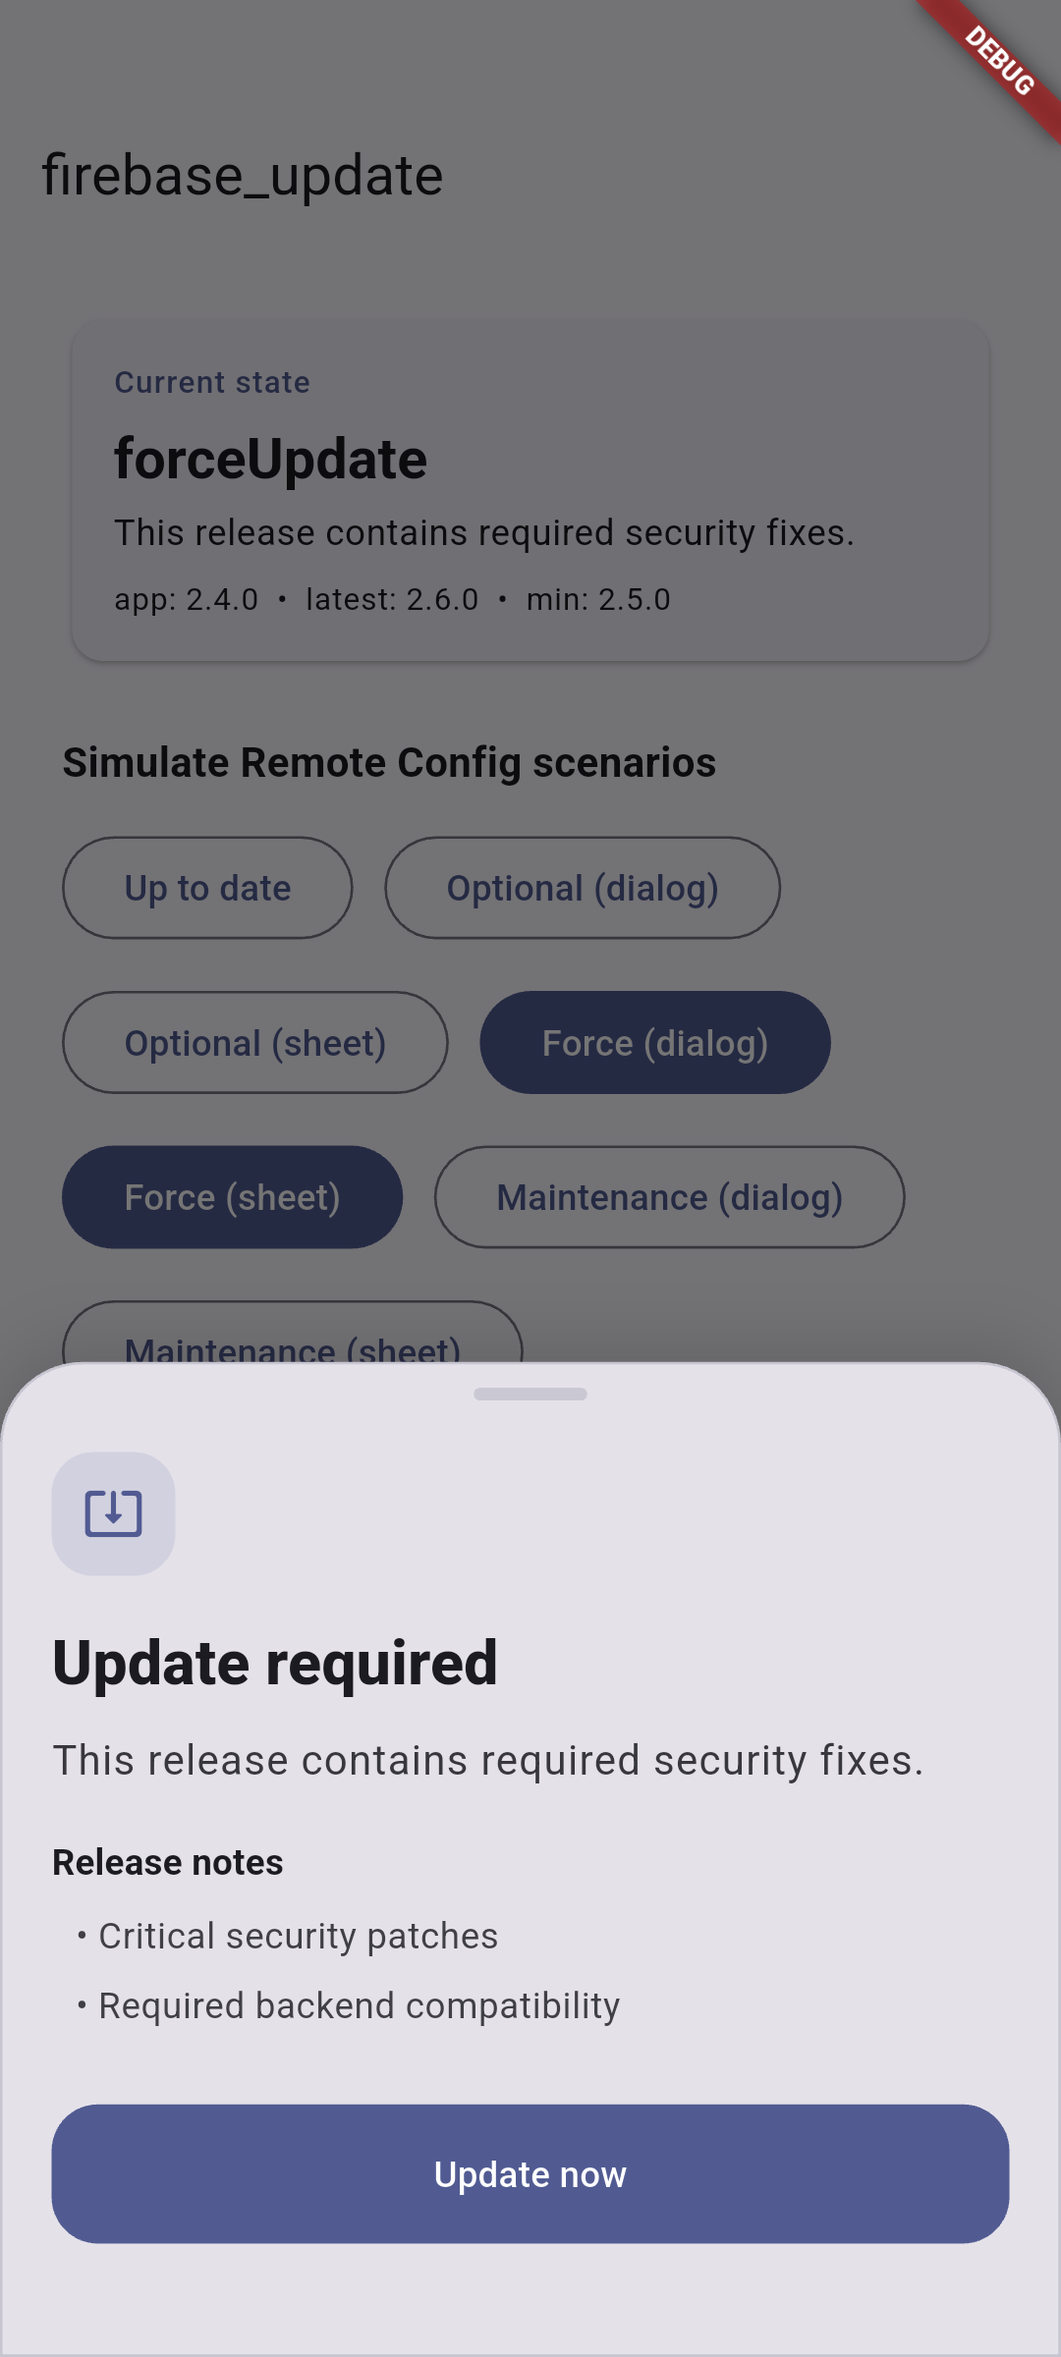
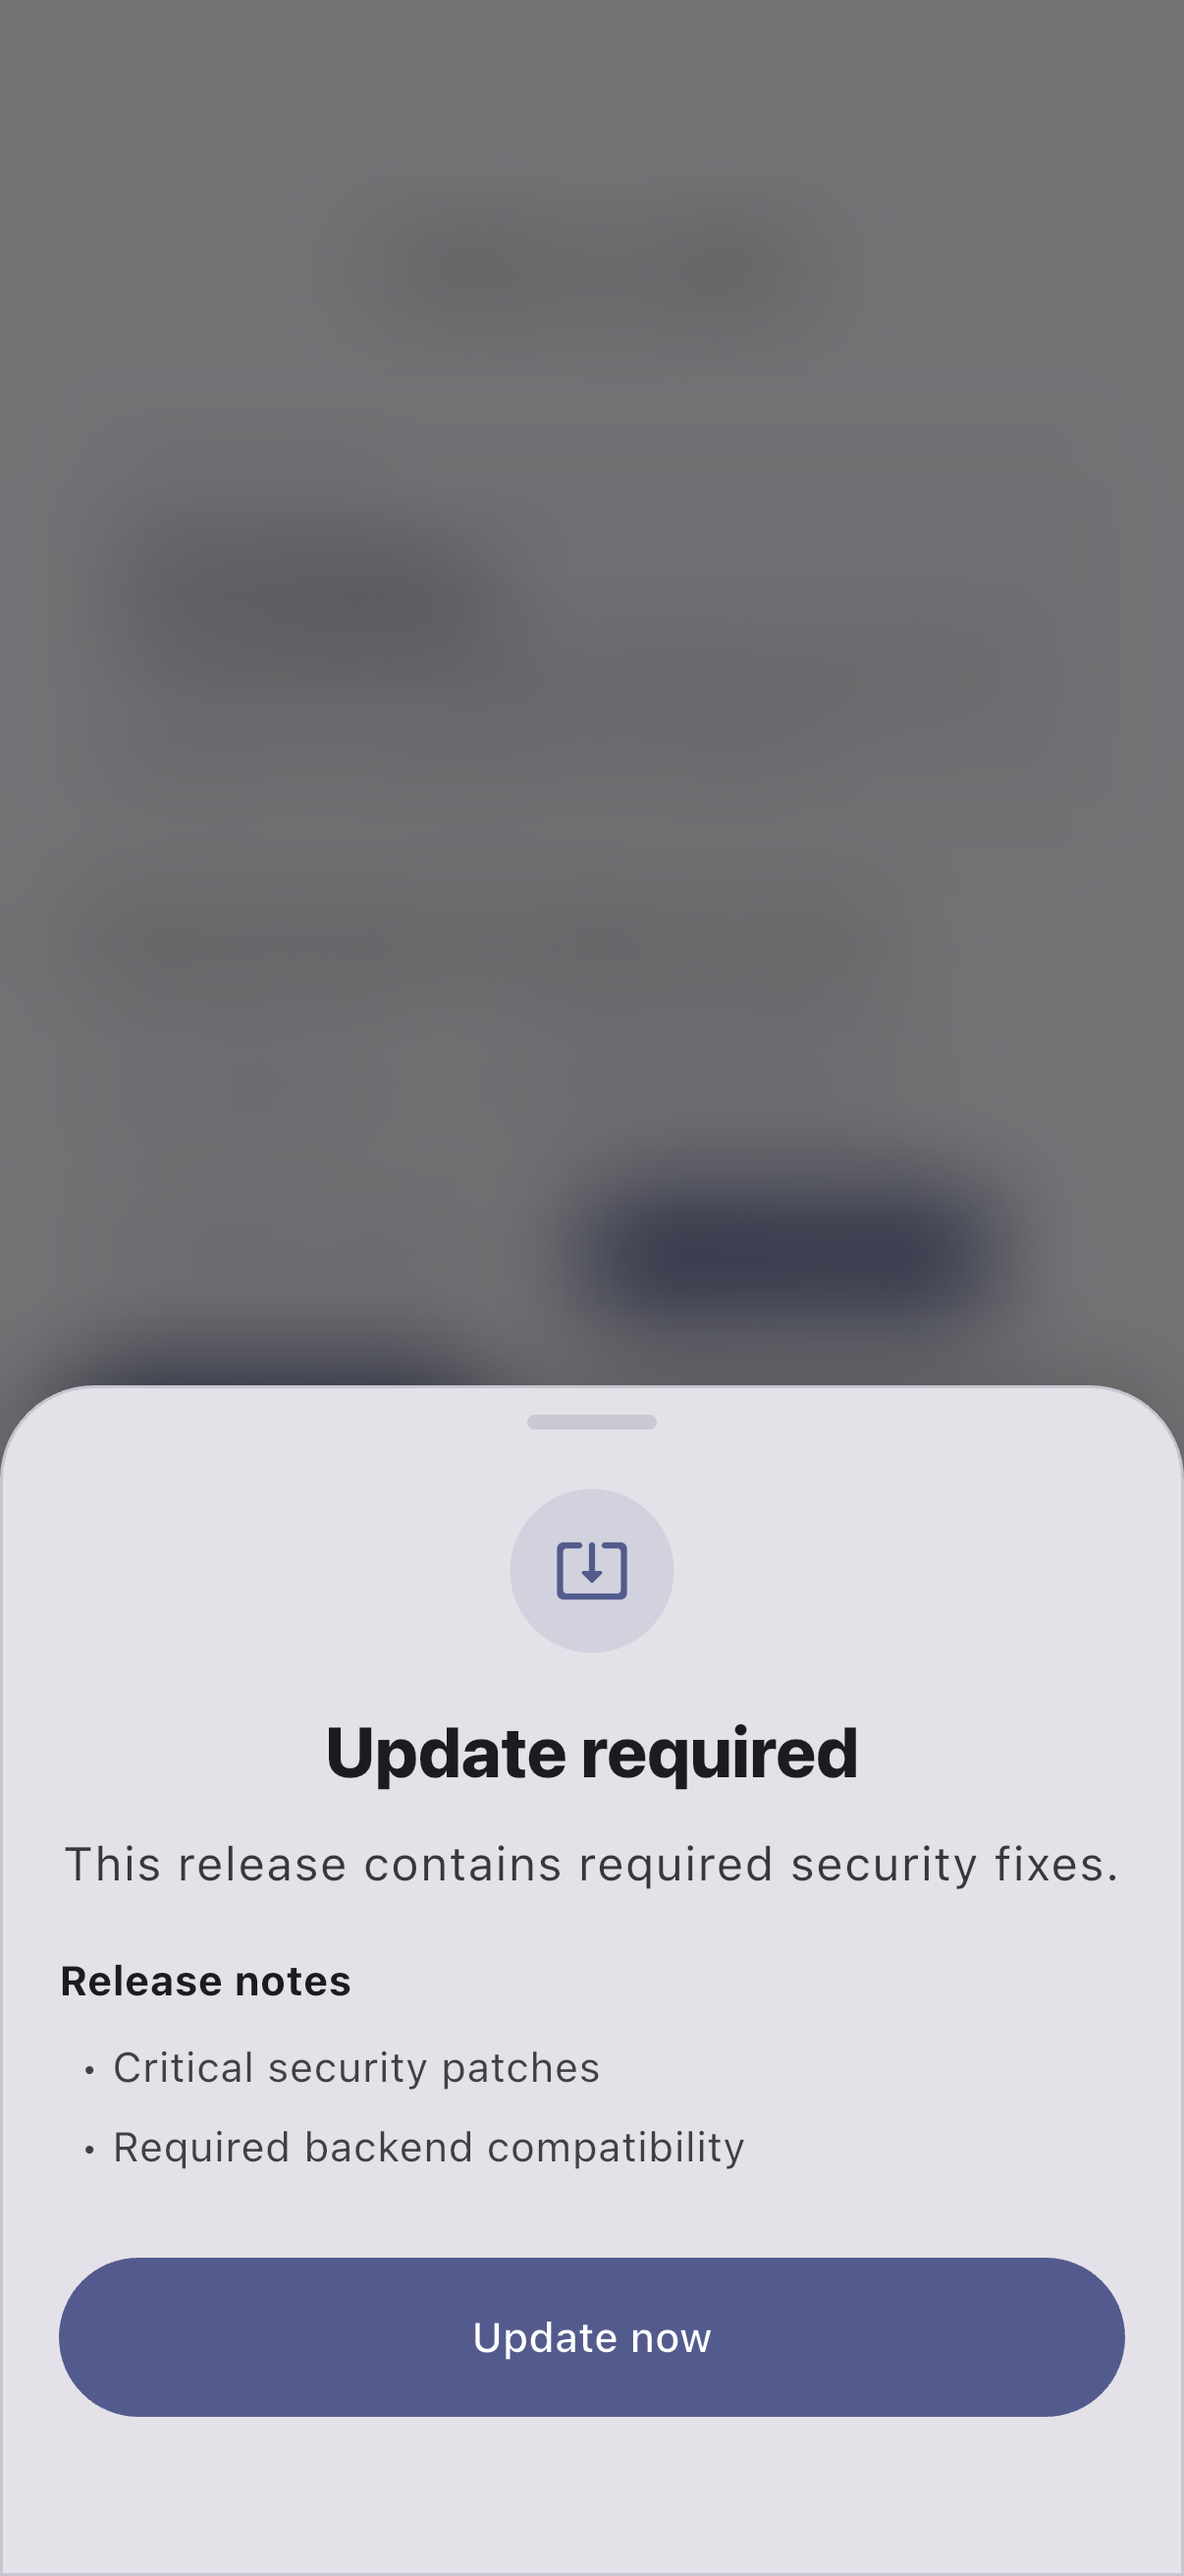
feat: version bump 1.0.5

diff --git a/lib/src/presentation/default_update_presenter.dart b/lib/src/presentation/default_update_presenter.dart
@@ -572,7 +572,7 @@ class DefaultUpdatePresenter {
               theme: config.presentation.theme,
               iconBuilder: config.presentation.iconBuilder,
               alignment: config.presentation.contentAlignment ??
-                  FirebaseUpdateContentAlignment.start,
+                  FirebaseUpdateContentAlignment.center,
               notesAlignment: config.presentation.patchNotesAlignment ??
                   FirebaseUpdateContentAlignment.start,
               typography: config.presentation.typography,
@@ -740,7 +740,7 @@ class DefaultUpdatePresenter {
               theme: config.presentation.theme,
               iconBuilder: config.presentation.iconBuilder,
               alignment: config.presentation.contentAlignment ??
-                  FirebaseUpdateContentAlignment.start,
+                  FirebaseUpdateContentAlignment.center,
               notesAlignment: config.presentation.patchNotesAlignment ??
                   FirebaseUpdateContentAlignment.start,
               typography: config.presentation.typography,
@@ -1264,11 +1264,11 @@ class _DefaultUpdatePanel extends StatelessWidget {
           alignment: _iconAlignment,
           child: resolvedIcon ??
               Container(
-                width: 48,
-                height: 48,
+                width: 56,
+                height: 56,
                 decoration: BoxDecoration(
                   color: theme.accentColor.withValues(alpha: 0.12),
-                  borderRadius: BorderRadius.circular(16),
+                  shape: BoxShape.circle,
                 ),
                 child: Center(
                   child: Icon(
@@ -1276,6 +1276,7 @@ class _DefaultUpdatePanel extends StatelessWidget {
                         ? Icons.construction_rounded
                         : Icons.system_update_alt_rounded,
                     color: theme.accentColor,
+                    size: 26,
                   ),
                 ),
               ),
@@ -1387,7 +1388,7 @@ class _DefaultUpdatePanel extends StatelessWidget {
                 minimumSize: const Size.fromHeight(54),
                 textStyle: typography.secondaryButtonStyle,
                 shape: RoundedRectangleBorder(
-                  borderRadius: BorderRadius.circular(18),
+                  borderRadius: BorderRadius.circular(100),
                 ),
               ),
               child: Text(data.secondaryLabel!),
@@ -1407,7 +1408,7 @@ class _DefaultUpdatePanel extends StatelessWidget {
                 minimumSize: const Size.fromHeight(54),
                 textStyle: typography.primaryButtonStyle,
                 shape: RoundedRectangleBorder(
-                  borderRadius: BorderRadius.circular(18),
+                  borderRadius: BorderRadius.circular(100),
                 ),
               ),
               child: Text(data.primaryLabel),
@@ -1893,16 +1894,17 @@ class _ShorebirdPatchPanelState extends State<_ShorebirdPatchPanel> {
                   : Alignment.center,
           child: resolvedIcon ??
               Container(
-                width: 48,
-                height: 48,
+                width: 56,
+                height: 56,
                 decoration: BoxDecoration(
                   color: visualTheme.accentColor.withValues(alpha: 0.12),
-                  borderRadius: BorderRadius.circular(16),
+                  shape: BoxShape.circle,
                 ),
                 child: Center(
                   child: Icon(
                     Icons.auto_fix_high_rounded,
                     color: visualTheme.accentColor,
+                    size: 26,
                   ),
                 ),
               ),
@@ -1962,7 +1964,7 @@ class _ShorebirdPatchPanelState extends State<_ShorebirdPatchPanel> {
               minimumSize: const Size.fromHeight(54),
               textStyle: widget.typography.secondaryButtonStyle,
               shape: RoundedRectangleBorder(
-                borderRadius: BorderRadius.circular(18),
+                borderRadius: BorderRadius.circular(100),
               ),
             ),
             child: Text(widget.laterLabel),
@@ -1978,7 +1980,7 @@ class _ShorebirdPatchPanelState extends State<_ShorebirdPatchPanel> {
               minimumSize: const Size.fromHeight(54),
               textStyle: widget.typography.primaryButtonStyle,
               shape: RoundedRectangleBorder(
-                borderRadius: BorderRadius.circular(18),
+                borderRadius: BorderRadius.circular(100),
               ),
             ),
             child: _isApplying

diff --git a/lib/src/presentation/firebase_update_presentation.dart b/lib/src/presentation/firebase_update_presentation.dart
@@ -234,8 +234,8 @@ class FirebaseUpdatePresentationTheme {
     this.mutedContentColor,
     this.outlineColor,
     this.barrierColor,
-    this.dialogBackgroundBlurSigma,
-    this.bottomSheetBackgroundBlurSigma,
+    this.dialogBackgroundBlurSigma = 20.0,
+    this.bottomSheetBackgroundBlurSigma = 20.0,
     this.heroGradient,
     this.dialogBorderRadius = const BorderRadius.all(Radius.circular(28)),
     this.sheetBorderRadius = const BorderRadius.vertical(

diff --git a/example/lib/example_app.dart b/example/lib/example_app.dart
@@ -126,6 +126,7 @@ class FirebaseUpdateExampleApp extends StatelessWidget {
     return MaterialApp(
       navigatorKey: rootNavigatorKey,
       title: 'firebase_update example',
+      debugShowCheckedModeBanner: false,
       theme: ThemeData(colorSchemeSeed: Colors.indigo),
       home: const ExampleHomePage(),
     );
